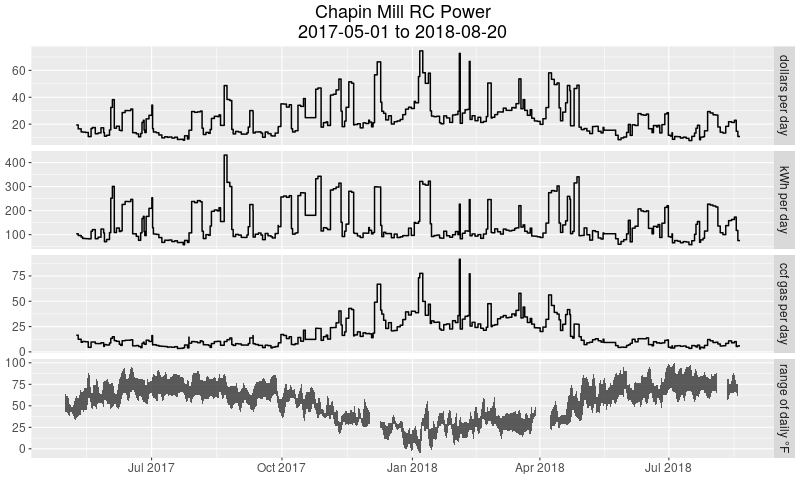
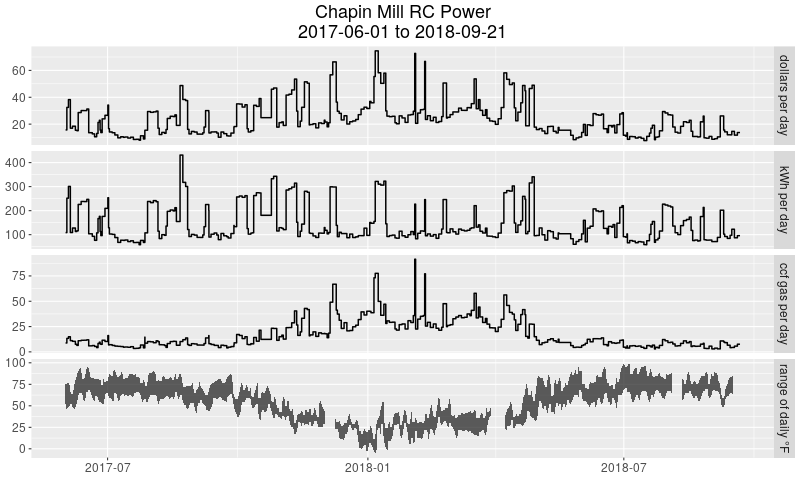
auto commit

diff --git a/index.html b/index.html
@@ -3,7 +3,7 @@
 "http://www.w3.org/TR/xhtml1/DTD/xhtml1-strict.dtd">
 <html xmlns="http://www.w3.org/1999/xhtml" lang="en" xml:lang="en">
 <head>
-<!-- 2018-08-20 Mon 15:48 -->
+<!-- 2018-09-22 Sat 09:24 -->
 <meta http-equiv="Content-Type" content="text/html;charset=utf-8" />
 <meta name="viewport" content="width=device-width, initial-scale=1" />
 <title>Chapin Mill Energy</title>
@@ -252,13 +252,13 @@ for the JavaScript code in this tag.
 <body>
 <div id="content">
 <h1 class="title">Chapin Mill Energy</h1>
-<div id="outline-container-orgfd4360c" class="outline-2">
-<h2 id="orgfd4360c">Energy Comparisons</h2>
-<div class="outline-text-2" id="text-orgfd4360c">
+<div id="outline-container-org6a6ea15" class="outline-2">
+<h2 id="org6a6ea15">Energy Comparisons</h2>
+<div class="outline-text-2" id="text-org6a6ea15">
 </div>
-<div id="outline-container-org738efa4" class="outline-3">
-<h3 id="org738efa4">Energy Consumption and Weather</h3>
-<div class="outline-text-3" id="text-org738efa4">
+<div id="outline-container-org7dd6e4e" class="outline-3">
+<h3 id="org7dd6e4e">Energy Consumption and Weather</h3>
+<div class="outline-text-3" id="text-org7dd6e4e">
 <p>
 The plot below describes outdoor air temperatures and the rate of
 retreat center energy consumption for the past few months. These
@@ -317,7 +317,7 @@ dollar cost&#x2014;over all times of the year and over all events.
 
 <p>
 To be slightly more precise, 95% of the time the observed
-electricity power consumption was less than <code>310</code>
+electricity power consumption was less than <code>309</code>
 kWh per day, gas consumption was less than
 <code>46</code> hundred cubic feet per day and the
 overall energy cost was less than <code>53</code> dollars per
@@ -407,9 +407,9 @@ the results would not be very interesting.
 </div>
 </div>
 
-<div id="outline-container-orgd1d2e7f" class="outline-3">
-<h3 id="orgd1d2e7f">Natural gas</h3>
-<div class="outline-text-3" id="text-orgd1d2e7f">
+<div id="outline-container-org6663e39" class="outline-3">
+<h3 id="org6663e39">Natural gas</h3>
+<div class="outline-text-3" id="text-org6663e39">
 <p>
 For a given level of occupancy of the retreat center it would be
 natural to consider gas consumption as consisting of two parts:
@@ -522,9 +522,9 @@ predictions for times that are either idle, sesshin, SIMT or UR.)
 </div>
 </div>
 
-<div id="outline-container-orga02494b" class="outline-3">
-<h3 id="orga02494b">Electricity</h3>
-<div class="outline-text-3" id="text-orga02494b">
+<div id="outline-container-org4508ca4" class="outline-3">
+<h3 id="org4508ca4">Electricity</h3>
+<div class="outline-text-3" id="text-org4508ca4">
 <p>
 For the period under consideration electricity usage did not vary
 with outside air temperature in a significant way. The data only
@@ -599,9 +599,9 @@ dollars respectively.
 </div>
 </div>
 
-<div id="outline-container-orgad6403a" class="outline-2">
-<h2 id="orgad6403a">Details</h2>
-<div class="outline-text-2" id="text-orgad6403a">
+<div id="outline-container-org3bf4ee5" class="outline-2">
+<h2 id="org3bf4ee5">Details</h2>
+<div class="outline-text-2" id="text-org3bf4ee5">
 <p>
 The natural gas model is
 \[
@@ -794,7 +794,7 @@ where \(y\) is electricity consumption in kWh per day and the
 </div>
 </div>
 <div id="postamble" class="status">
-<p class="date">Created: 2018-08-20 Mon 15:48</p>
+<p class="date">Created: 2018-09-22 Sat 09:24</p>
 <p class="validation"><a href="http://validator.w3.org/check?uri=referer">Validate</a></p>
 </div>
 </body>
